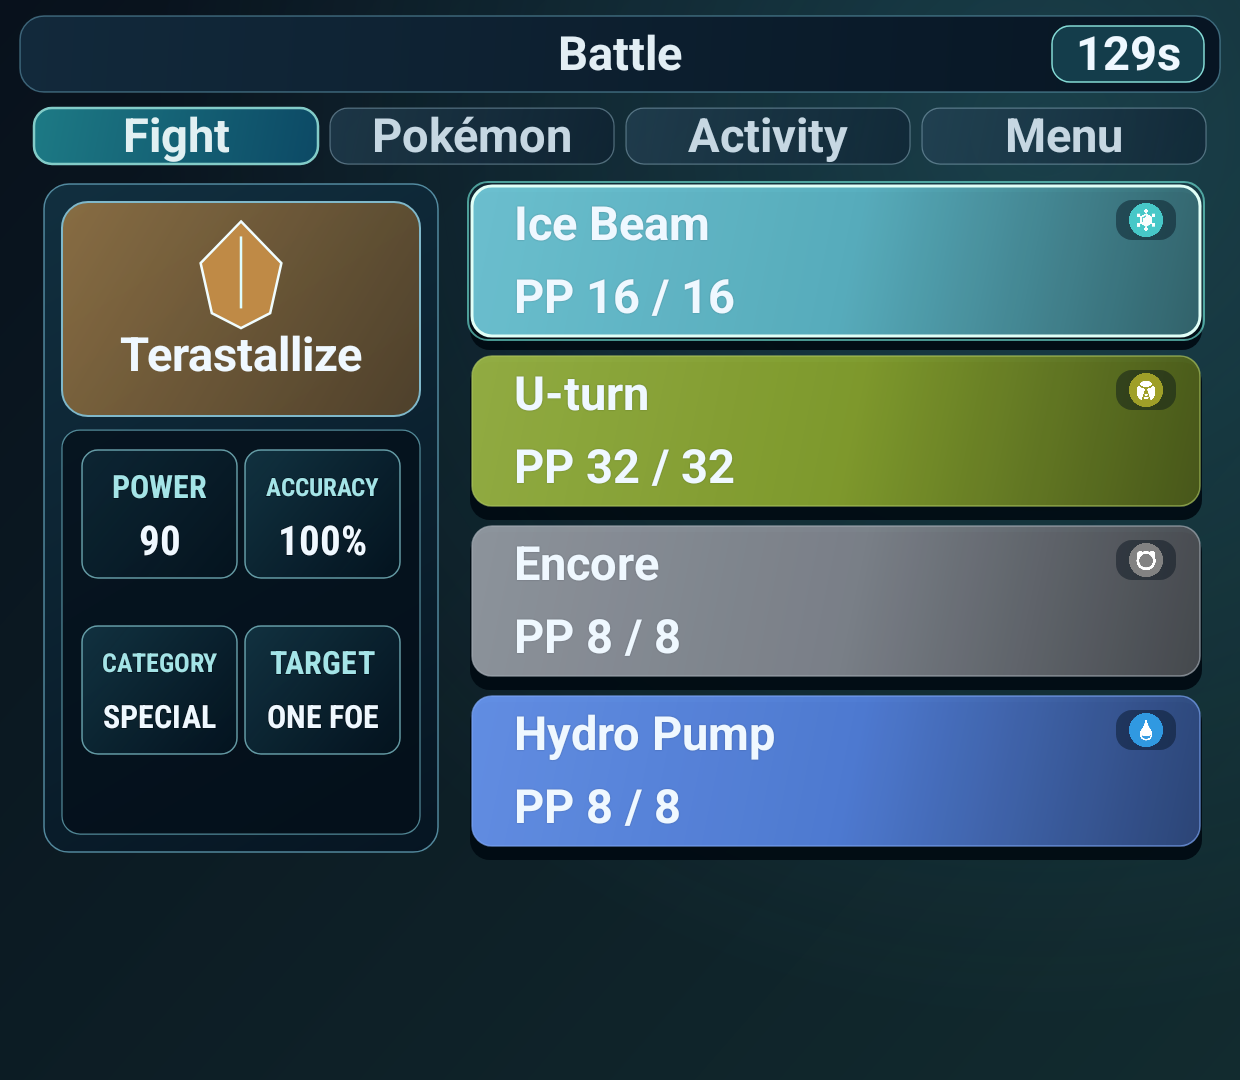
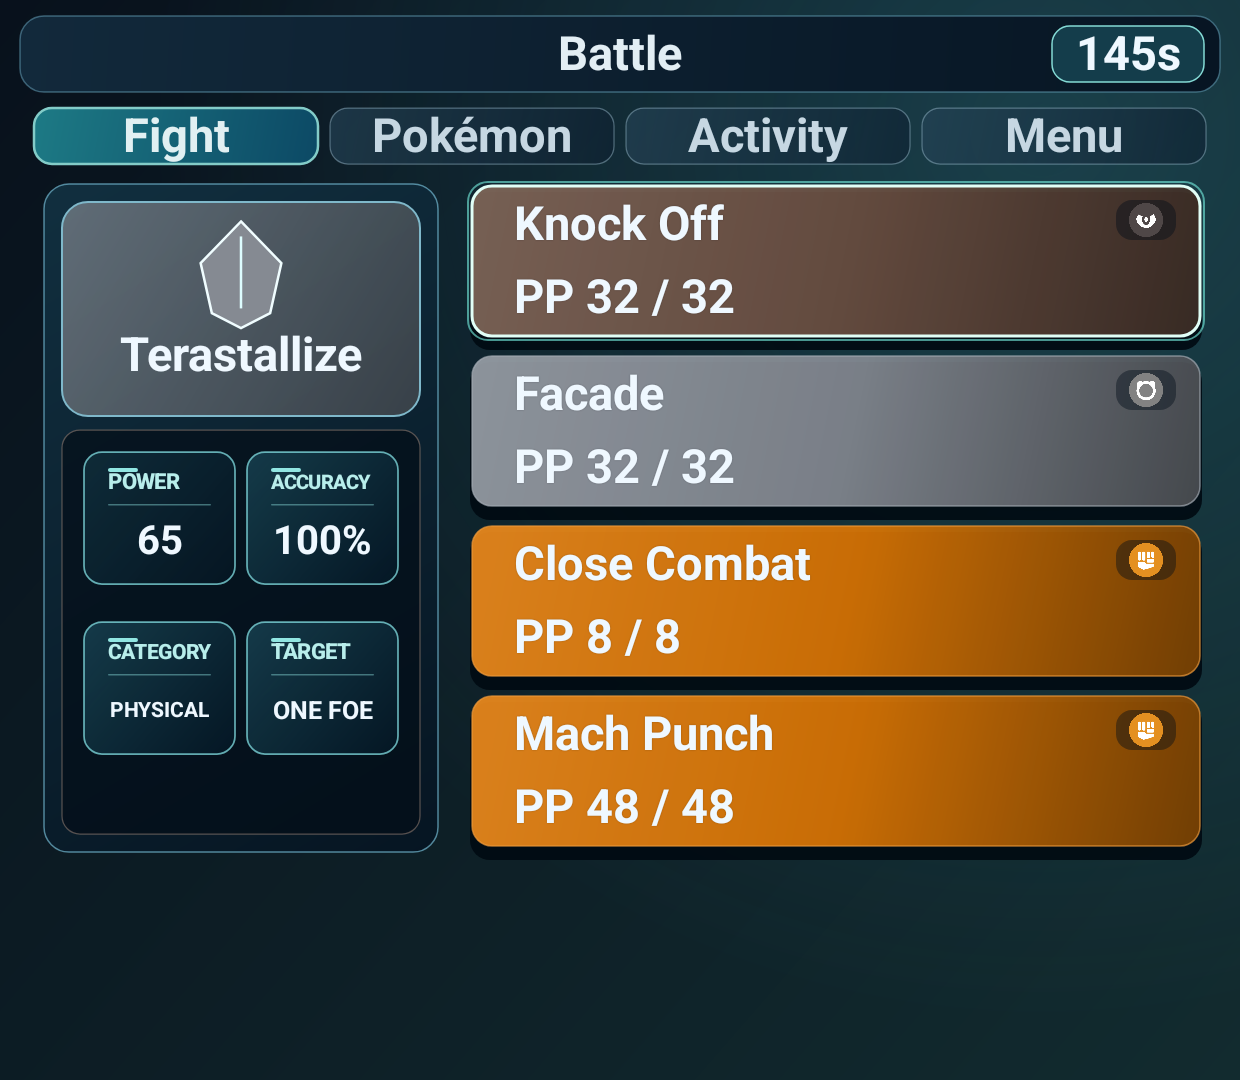
fix: refine Thor move metric cards

diff --git a/app/src/main/kotlin/dev/adrian/showdown/CommandDeckView.kt b/app/src/main/kotlin/dev/adrian/showdown/CommandDeckView.kt
@@ -457,14 +457,14 @@ class CommandDeckView(
             return
         }
         var sectionTop = detailContent.top
-        val infoCellHeight = 128f * scale
+        val infoCellHeight = 136f * scale
         drawMoveMetrics(
             canvas,
             RectF(detailContent.left, sectionTop, detailContent.right, sectionTop + infoCellHeight),
             move,
             scale
         )
-        val metricToContextGap = if (compact) 48f * scale else 56f * scale
+        val metricToContextGap = if (compact) 34f * scale else 48f * scale
         sectionTop += infoCellHeight + metricToContextGap
         drawMoveContext(
             canvas,
@@ -472,7 +472,7 @@ class CommandDeckView(
             move,
             scale
         )
-        sectionTop += infoCellHeight + if (compact) 8f * scale else 12f * scale
+        sectionTop += infoCellHeight + if (compact) 10f * scale else 16f * scale
         if (!compact) drawEffectSummary(canvas, detailContent, scale, sectionTop)
         if (move.disabled) {
             paint.typeface = android.graphics.Typeface.create("sans-serif", android.graphics.Typeface.BOLD)
@@ -543,75 +543,74 @@ class CommandDeckView(
     }
 
     private fun drawMoveInfoCell(canvas: Canvas, bounds: RectF, label: String, value: String, scale: Float) {
+        val radius = 18f * scale
+        val inner = RectF(bounds).apply { inset(2f * scale, 2f * scale) }
         paint.style = Paint.Style.FILL
         paint.shader = LinearGradient(
-            bounds.left,
-            bounds.top,
-            bounds.right,
-            bounds.bottom,
-            Color.argb(214, 19, 55, 70),
-            Color.argb(184, 3, 19, 31),
+            inner.left,
+            inner.top,
+            inner.right,
+            inner.bottom,
+            Color.argb(226, 22, 63, 78),
+            Color.argb(204, 4, 24, 38),
             Shader.TileMode.CLAMP
         )
-        canvas.drawRoundRect(bounds, 16f * scale, 16f * scale, paint)
+        canvas.drawRoundRect(inner, radius, radius, paint)
         paint.shader = null
         paint.style = Paint.Style.STROKE
-        paint.strokeWidth = 1.5f * scale
-        paint.color = Color.argb(178, 141, 211, 220)
-        canvas.drawRoundRect(bounds, 16f * scale, 16f * scale, paint)
-        paint.style = Paint.Style.FILL
-        paint.textAlign = Paint.Align.CENTER
-        paint.typeface = android.graphics.Typeface.create("sans-serif-condensed", android.graphics.Typeface.BOLD)
+        paint.strokeWidth = 1.75f * scale
+        paint.color = Color.argb(194, 128, 218, 222)
+        canvas.drawRoundRect(inner, radius, radius, paint)
 
-        val horizontalPadding = 20f * scale
-        val verticalPadding = 12f * scale
-        val rowGap = 4f * scale
-        val contentWidth = bounds.width() - horizontalPadding * 2f
-        val labelArea = RectF(
-            bounds.left + horizontalPadding,
-            bounds.top + verticalPadding,
-            bounds.right - horizontalPadding,
-            bounds.centerY() - rowGap / 2f
+        val horizontalPadding = 24f * scale
+        val verticalPadding = 16f * scale
+        val content = RectF(
+            inner.left + horizontalPadding,
+            inner.top + verticalPadding,
+            inner.right - horizontalPadding,
+            inner.bottom - verticalPadding
         )
-        val valueArea = RectF(
-            bounds.left + horizontalPadding,
-            bounds.centerY() + rowGap / 2f,
-            bounds.right - horizontalPadding,
-            bounds.bottom - verticalPadding
+        val labelHeight = 28f * scale
+        val dividerY = content.top + labelHeight + 8f * scale
+        val valueArea = RectF(content.left, dividerY + 8f * scale, content.right, content.bottom)
+        paint.style = Paint.Style.FILL
+        paint.color = Color.rgb(145, 230, 226)
+        canvas.drawRoundRect(
+            RectF(content.left, content.top, content.left + 30f * scale, content.top + 4f * scale),
+            2f * scale,
+            2f * scale,
+            paint
         )
+        paint.color = Color.argb(108, 145, 230, 226)
+        canvas.drawRoundRect(
+            RectF(content.left, dividerY, content.right, dividerY + 1.5f * scale),
+            1f * scale,
+            1f * scale,
+            paint
+        )
+        paint.textAlign = Paint.Align.LEFT
+        paint.typeface = android.graphics.Typeface.create("sans-serif-medium", android.graphics.Typeface.BOLD)
         val labelSize = fittedTextSize(
             label,
-            contentWidth,
-            readableTextSize(17f, scale, 14f, 12f).coerceAtMost(labelArea.height() * 0.82f),
+            content.width(),
+            readableTextSize(16f, scale, 14f, 12f).coerceAtMost(labelHeight * 0.78f),
             12f * scale
         )
         paint.textSize = labelSize
-        drawOutlinedText(
-            canvas,
-            label,
-            bounds.centerX(),
-            centeredTextBaseline(labelArea.centerY()),
-            Color.rgb(3, 14, 22),
-            Color.rgb(164, 228, 231),
-            1.25f * scale
-        )
+        paint.color = Color.rgb(184, 238, 235)
+        canvas.drawText(label, content.left, centeredTextBaseline(content.top + labelHeight / 2f), paint)
 
+        paint.textAlign = Paint.Align.CENTER
+        paint.typeface = android.graphics.Typeface.create("sans-serif", android.graphics.Typeface.BOLD)
         val valueSize = fittedTextSize(
             value,
-            contentWidth,
-            readableTextSize(29f, scale, 22f, 18f).coerceAtMost(valueArea.height() * 0.82f),
+            valueArea.width(),
+            readableTextSize(29f, scale, 22f, 18f).coerceAtMost(valueArea.height() * 0.72f),
             18f * scale
         )
         paint.textSize = valueSize
-        drawOutlinedText(
-            canvas,
-            value,
-            bounds.centerX(),
-            centeredTextBaseline(valueArea.centerY()),
-            Color.rgb(3, 14, 22),
-            PAPER,
-            1.5f * scale
-        )
+        paint.color = PAPER
+        canvas.drawText(value, valueArea.centerX(), centeredTextBaseline(valueArea.centerY()), paint)
         paint.textAlign = Paint.Align.LEFT
     }
 

diff --git a/app/src/main/kotlin/dev/adrian/showdown/MainActivity.kt b/app/src/main/kotlin/dev/adrian/showdown/MainActivity.kt
@@ -175,7 +175,8 @@ class MainActivity : Activity() {
     private var replayStatus: String? = null
     private var replayPaused = false
     private var replayPausedForLifecycle = false
-    private var liveEffectsPausedForLifecycle = false
+    private var livePlaybackPausedForLifecycle = false
+    private var livePlaybackPausedRemainingMillis: Long? = null
     private var replaySpeed = DEFAULT_BATTLE_SPEED
     private var restoredReplayPaused = false
     private var restoredReplaySpeed = DEFAULT_BATTLE_SPEED
@@ -468,7 +469,7 @@ class MainActivity : Activity() {
 
     override fun onPause() {
         pauseReplayForLifecycle()
-        pauseLiveEffectsForLifecycle()
+        pauseLivePlaybackForLifecycle()
         if (::battleAudio.isInitialized) {
             battleAudio.resetBattleCues()
             battleAudio.pauseMusic()
@@ -478,7 +479,7 @@ class MainActivity : Activity() {
 
     override fun onStop() {
         pauseReplayForLifecycle()
-        pauseLiveEffectsForLifecycle()
+        pauseLivePlaybackForLifecycle()
         super.onStop()
     }
 
@@ -492,7 +493,7 @@ class MainActivity : Activity() {
         configureWindow()
         if (::battleAudio.isInitialized && ::session.isInitialized) battleAudio.updateOptions(session)
         resumeReplayForLifecycle()
-        resumeLiveEffectsForLifecycle()
+        resumeLivePlaybackForLifecycle()
         if (::session.isInitialized && shouldMaintainConnection && showdownConnection == null && !isFinishing) connectLobbySocket()
     }
 
@@ -622,7 +623,7 @@ class MainActivity : Activity() {
     }
 
     private fun flushBattlePlayback() {
-        if (replayPaused && session.isReplayMode()) return
+        if ((replayPaused && session.isReplayMode()) || (livePlaybackPausedForLifecycle && !session.isReplayMode())) return
         if (battlePacketPlaybackScheduled || pendingBattlePackets.isEmpty()) {
             if (!battlePacketPlaybackScheduled && pendingBattlePackets.isEmpty()) {
                 replayStatus?.let {
@@ -713,10 +714,10 @@ class MainActivity : Activity() {
         battleEventHandler.removeCallbacksAndMessages(null)
         pendingBattlePackets.clear()
         battlePacketPlaybackScheduled = false
-        showdownMoveEffects?.setPlaybackPaused(false)
         replayPaused = false
         replayPausedForLifecycle = false
-        liveEffectsPausedForLifecycle = false
+        livePlaybackPausedRemainingMillis = null
+        if (!livePlaybackPausedForLifecycle) showdownMoveEffects?.setPlaybackPaused(false)
         showdownMoveEffects?.setPlaybackSpeed(replaySpeed)
         playbackScheduledPauseMillis = 0L
         playbackScheduledAtMillis = 0L
@@ -739,16 +740,33 @@ class MainActivity : Activity() {
         }
     }
 
-    private fun pauseLiveEffectsForLifecycle() {
-        if (!::session.isInitialized || session.isReplayMode() || liveEffectsPausedForLifecycle) return
-        liveEffectsPausedForLifecycle = true
+    private fun pauseLivePlaybackForLifecycle() {
+        if (!::session.isInitialized || session.isReplayMode() || livePlaybackPausedForLifecycle) return
+        livePlaybackPausedForLifecycle = true
         showdownMoveEffects?.setPlaybackPaused(true)
+        if (battlePacketPlaybackScheduled) {
+            livePlaybackPausedRemainingMillis = remainingPlaybackMillis()
+            battleEventHandler.removeCallbacks(playbackAdvanceRunnable)
+            battlePacketPlaybackScheduled = false
+        }
     }
 
-    private fun resumeLiveEffectsForLifecycle() {
-        if (!liveEffectsPausedForLifecycle) return
-        liveEffectsPausedForLifecycle = false
-        if (::session.isInitialized && !session.isReplayMode()) showdownMoveEffects?.setPlaybackPaused(false)
+    private fun resumeLivePlaybackForLifecycle() {
+        if (!livePlaybackPausedForLifecycle) return
+        livePlaybackPausedForLifecycle = false
+        if (::session.isInitialized && !session.isReplayMode()) {
+            showdownMoveEffects?.setPlaybackPaused(false)
+            livePlaybackPausedRemainingMillis?.let { remainingMillis ->
+                livePlaybackPausedRemainingMillis = null
+                scheduleBattlePlayback(remainingMillis)
+            } ?: flushBattlePlayback()
+        }
+    }
+
+    private fun remainingPlaybackMillis(): Long {
+        val elapsedMillis = (SystemClock.elapsedRealtime() - playbackScheduledAtMillis).coerceAtLeast(0L)
+        val consumedMillis = (elapsedMillis * playbackScheduledSpeed).toLong()
+        return (playbackScheduledPauseMillis - consumedMillis).coerceAtLeast(0L)
     }
 
     private fun handleAppliedBattlePacket(packet: PendingBattlePacket) {

diff --git a/app/src/main/kotlin/dev/adrian/showdown/ShowdownChangelog.kt b/app/src/main/kotlin/dev/adrian/showdown/ShowdownChangelog.kt
@@ -13,7 +13,7 @@ object ShowdownChangelog {
                 "Account settings can now create a registered Showdown account and finish sign-in without leaving the client.",
                 "Battle sound effects now stop cleanly when the app leaves the foreground instead of resuming out of sync.",
                 "Live battle animations now pause with the app and resume cleanly after returning to the foreground.",
-                "Move detail panels now focus on readable move names, power, and accuracy while selector cards retain PP.",
+                "Move detail panels now use matching padded metric cards for large, readable power, accuracy, category, and target values while selector cards retain PP.",
                 "Move previews now fill power, accuracy, category, and gimmick power from the official dex while keeping status and always-hit values as dashes.",
                 "Type icons remain on move selectors without repeating the type label in the card or detail panel.",
                 "Battle audio cues now wait for the previous clip to finish, keeping damage and effectiveness sounds synchronized.",

diff --git a/app/src/test/kotlin/dev/adrian/showdown/MainActivityLifecycleContractTest.kt b/app/src/test/kotlin/dev/adrian/showdown/MainActivityLifecycleContractTest.kt
@@ -8,13 +8,13 @@ class MainActivityLifecycleContractTest {
     @Test
     fun liveEffectsPauseAndResumeWithTheActivityLifecycle() {
         val source = File("src/main/kotlin/dev/adrian/showdown/MainActivity.kt").readText()
-        val pauseIndex = source.indexOf("pauseLiveEffectsForLifecycle()")
-        val resumeIndex = source.indexOf("resumeLiveEffectsForLifecycle()")
+        val pauseIndex = source.indexOf("pauseLivePlaybackForLifecycle()")
+        val resumeIndex = source.indexOf("resumeLivePlaybackForLifecycle()")
 
         assertTrue(pauseIndex >= 0)
         assertTrue(resumeIndex > pauseIndex)
-        assertTrue(source.contains("liveEffectsPausedForLifecycle = true"))
-        assertTrue(source.contains("liveEffectsPausedForLifecycle = false"))
+        assertTrue(source.contains("livePlaybackPausedForLifecycle = true"))
+        assertTrue(source.contains("livePlaybackPausedForLifecycle = false"))
         assertTrue(source.contains("showdownMoveEffects?.setPlaybackPaused(true)"))
         assertTrue(source.contains("showdownMoveEffects?.setPlaybackPaused(false)"))
     }
